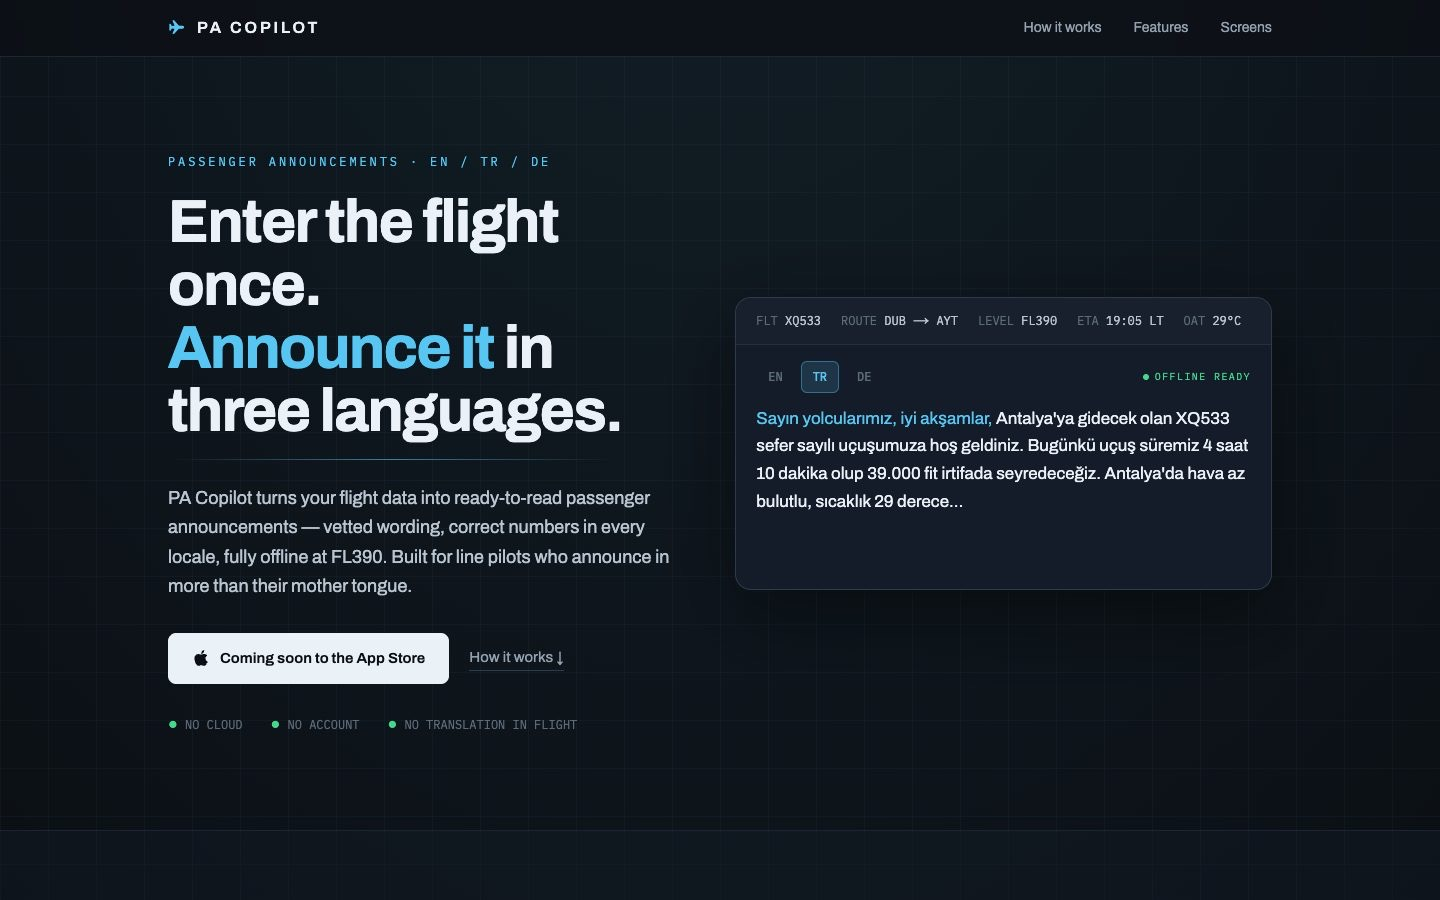
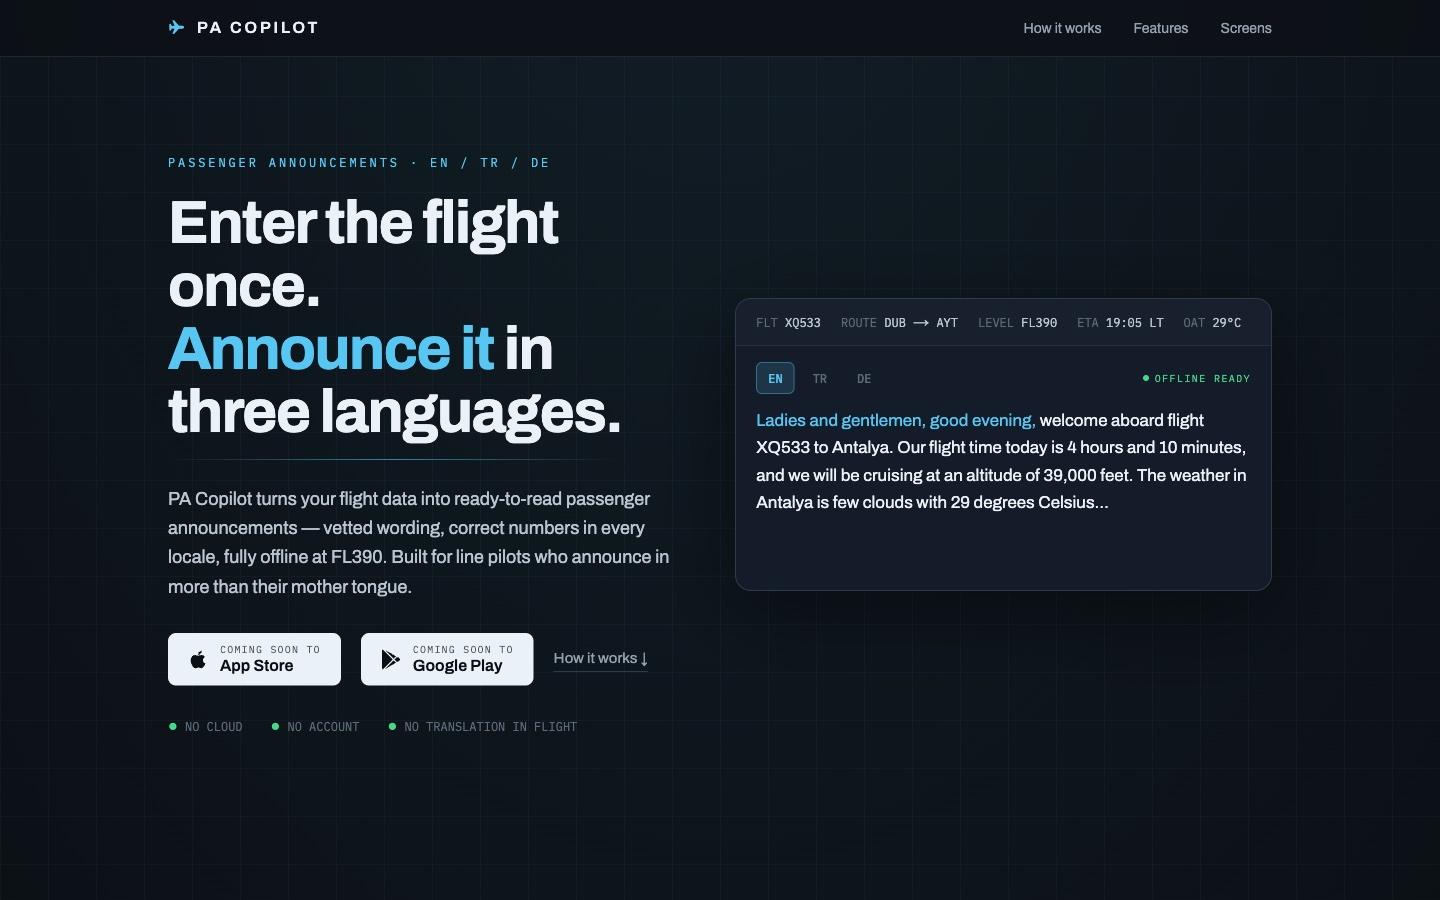
feat(projects): PA Copilot card on Projelerimiz (iOS + Android, in App Store review); showcase shows both store badges

diff --git a/app/web-projelerimiz/page.tsx b/app/web-projelerimiz/page.tsx
@@ -127,6 +127,24 @@ const projects: WebProject[] = [
     },
   },
   {
+    id: "pacopilot",
+    name: "PA Copilot",
+    description:
+      "Havayolu pilotları için yolcu anonsu yardımcısı. Uçuşu bir kez girin; boarding'den divert'e 10 anons tipi İngilizce, Türkçe ve Almanca hazır, büyük yazılı teleprompter'dan okunuyor. Cihaz üstü doğal sesle prova, tamamen çevrimdışı. iOS'ta App Store incelemesinde, Android sürümü Google Play'e hazırlanıyor.",
+    badge: "iOS + Android Uygulama",
+    status: "building",
+    tags: ["React Native", "Expo", "On-device TTS", "EN / TR / DE"],
+    href: "https://pacopilot.vexloft.com",
+    visual: {
+      kind: "phones",
+      images: [
+        "/projects/pacopilot/1.jpg",
+        "/projects/pacopilot/2.jpg",
+        "/projects/pacopilot/3.jpg",
+      ],
+    },
+  },
+  {
     id: "alkor-cms",
     name: "Alkor CMS",
     description:

diff --git a/components/home/projects.ts b/components/home/projects.ts
@@ -69,9 +69,9 @@ export const showcaseProjects: ShowcaseProject[] = [
   {
     id: "pacopilot",
     name: "PA Copilot",
-    category: "Mobil uygulama + site",
+    category: "iOS + Android uygulama + site",
     description:
-      "Pilotlar için anons yardımcısı. Uçuşu bir kez girin; anons İngilizce, Türkçe ve Almanca hazır. Tamamen çevrimdışı.",
+      "Pilotlar için anons yardımcısı. Uçuşu bir kez girin; anons İngilizce, Türkçe ve Almanca hazır. Tamamen çevrimdışı. iOS ve Android için.",
     url: "https://pacopilot.vexloft.com",
     domain: "pacopilot.vexloft.com",
     desktop: "/showcase/pacopilot-desktop.jpg",
